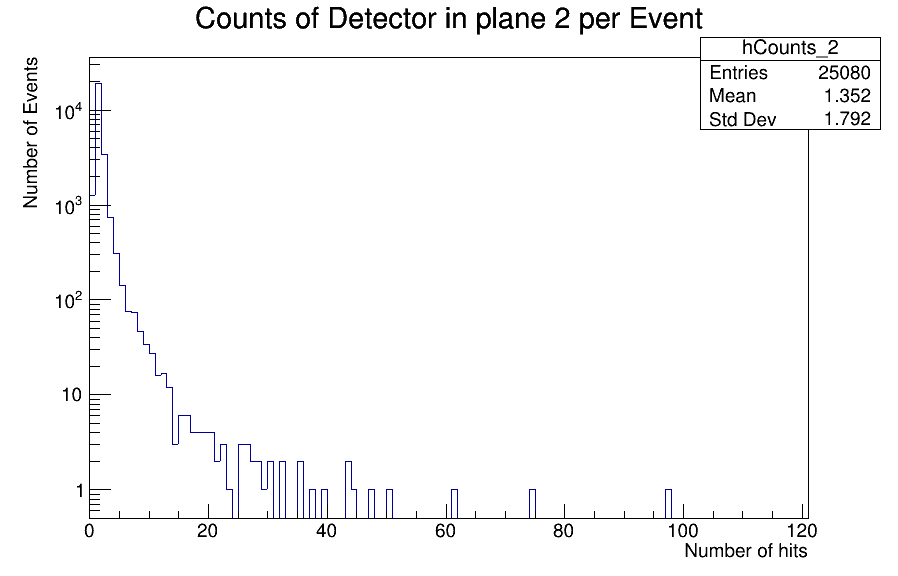
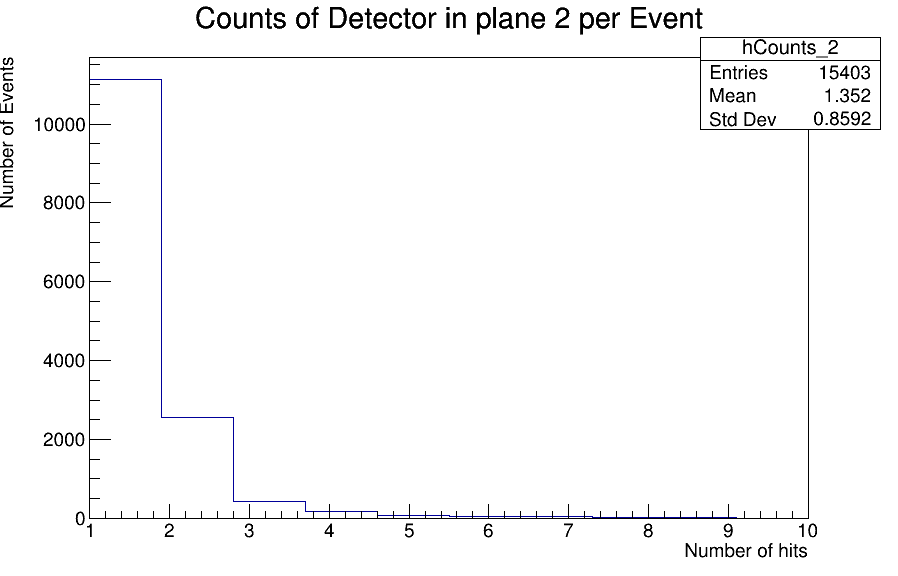
💩 Graphs and others.

diff --git a/Data Analysis/histograms.C b/Data Analysis/histograms.C
@@ -46,7 +46,7 @@ void histograms()
         
         histogramsHits[id] = new TH1I(Form("hCounts_%s", name.c_str()),
                                       Form("Counts of Detector in plane %s per Event; Number of hits; Number of Events", name.c_str()),
-                                      121, 0, 121);
+                                      10, 1, 10);
 
         histogramsQ[id] = new TH1F(Form("hMaxQ_%s", name.c_str()),
                                    Form("Maximum Charge of Detector %s;Charge (ADC);Number of Events", name.c_str()),
@@ -76,7 +76,7 @@ void histograms()
         map<int, int> hitsCount;
         for (int id : ids) {
             hitsCount[id] = count(apv_id.begin(), apv_id.end(), id);
-            histogramsHits[id]->Fill(hitsCount[id]);
+            if (hitsCount[id] != 0) {histogramsHits[id]->Fill(hitsCount[id]);}  
         }
     }, {"apv_id"});
 
@@ -123,18 +123,18 @@ void histograms()
     }, {"apv_id", "apv_q"});
 
     
-    TCanvas *canvas0 = new TCanvas("", "", 900, 600);
+    //TCanvas *canvas0 = new TCanvas("", "", 900, 600);
     //canvas0->SetLogy();
     
     // Draw and save each histogram
     for (int id : ids) {
-        //string name = idToName[id];
+        string name = idToName[id];
         
-        //TCanvas *canvas0 = new TCanvas(Form("canvas_%s", name.c_str()), Form("Hits in Detector in plane %s", name.c_str()), 900, 600);
+        TCanvas *canvas0 = new TCanvas(Form("canvas_%s", name.c_str()), Form("Hits in Detector in plane %s", name.c_str()), 900, 600);
         //canvas0->SetLogy();
         
         histogramsHits[id]->Draw();
-        // //canvas0->SaveAs(Form("Figures/hits_detector_plane_%s.png", name.c_str()));
+        canvas0->SaveAs(Form("Figures/hits_detector_plane_%s.png", name.c_str()));
         // Int_t bin_under = histogramsHits[id]->GetBinContent(0); 
         // Int_t bin_over = histogramsHits[id]->GetBinContent(11);
         // cout << bin_under << "\t" << bin_over << endl;
@@ -147,5 +147,5 @@ void histograms()
         // histogramsTQ[id]->Draw("same");
         // // canvas2->SaveAs(Form("Figures/TotalQ_detector_plane_%s.png", name.c_str()));
     }
-    canvas0->Draw();
+    //canvas0->Draw();
 }
